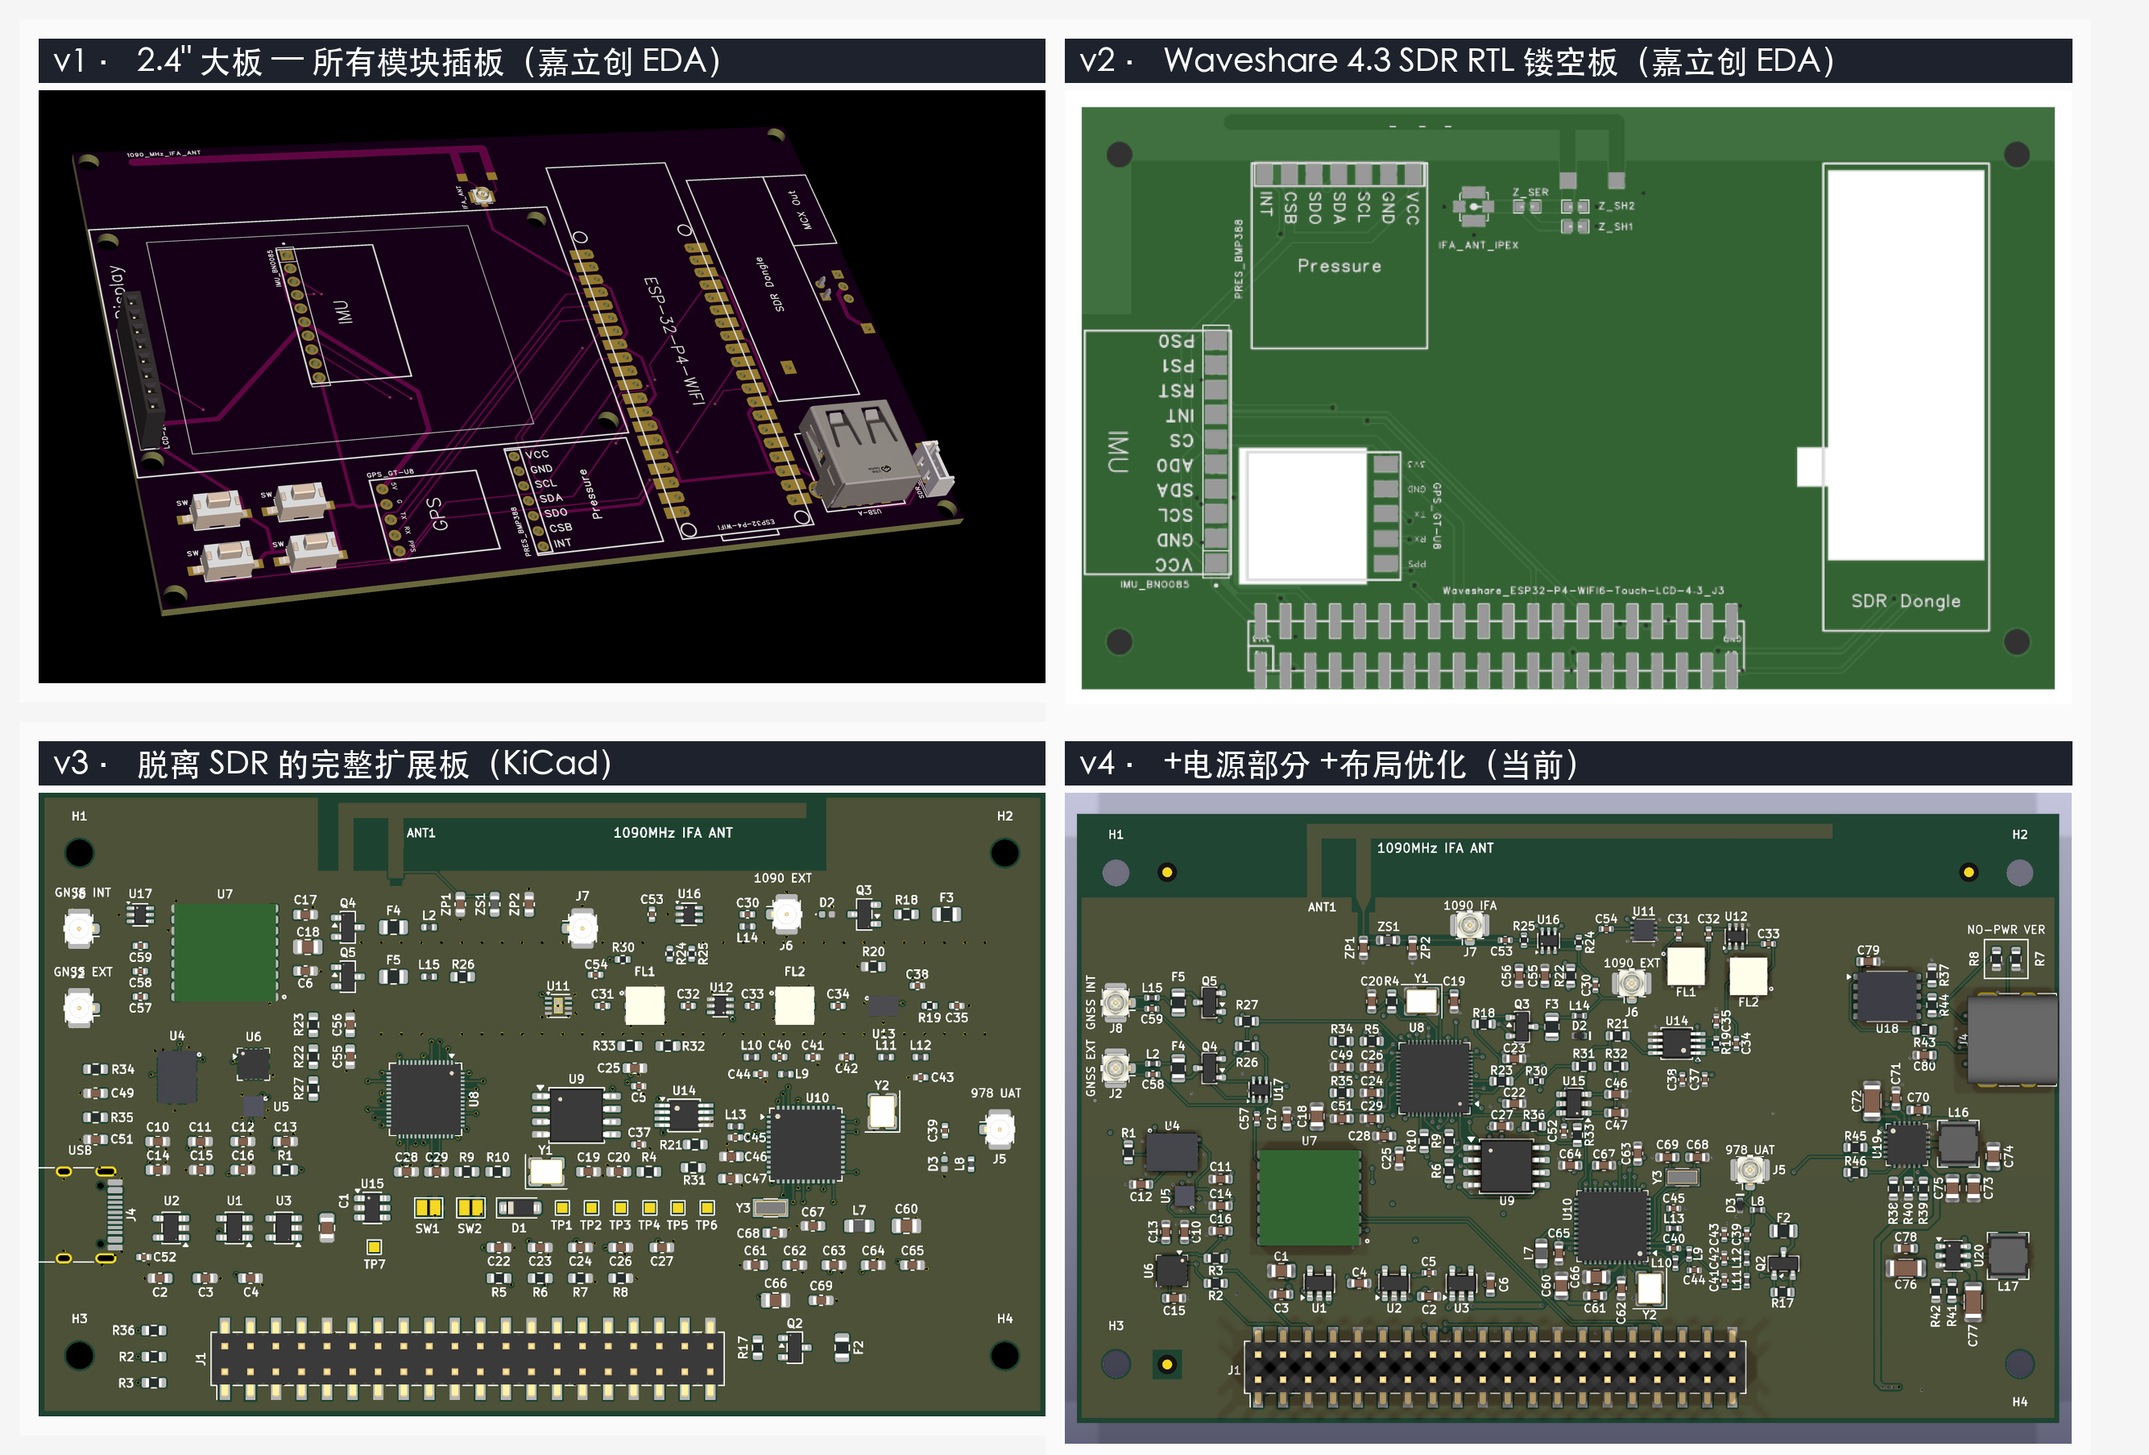
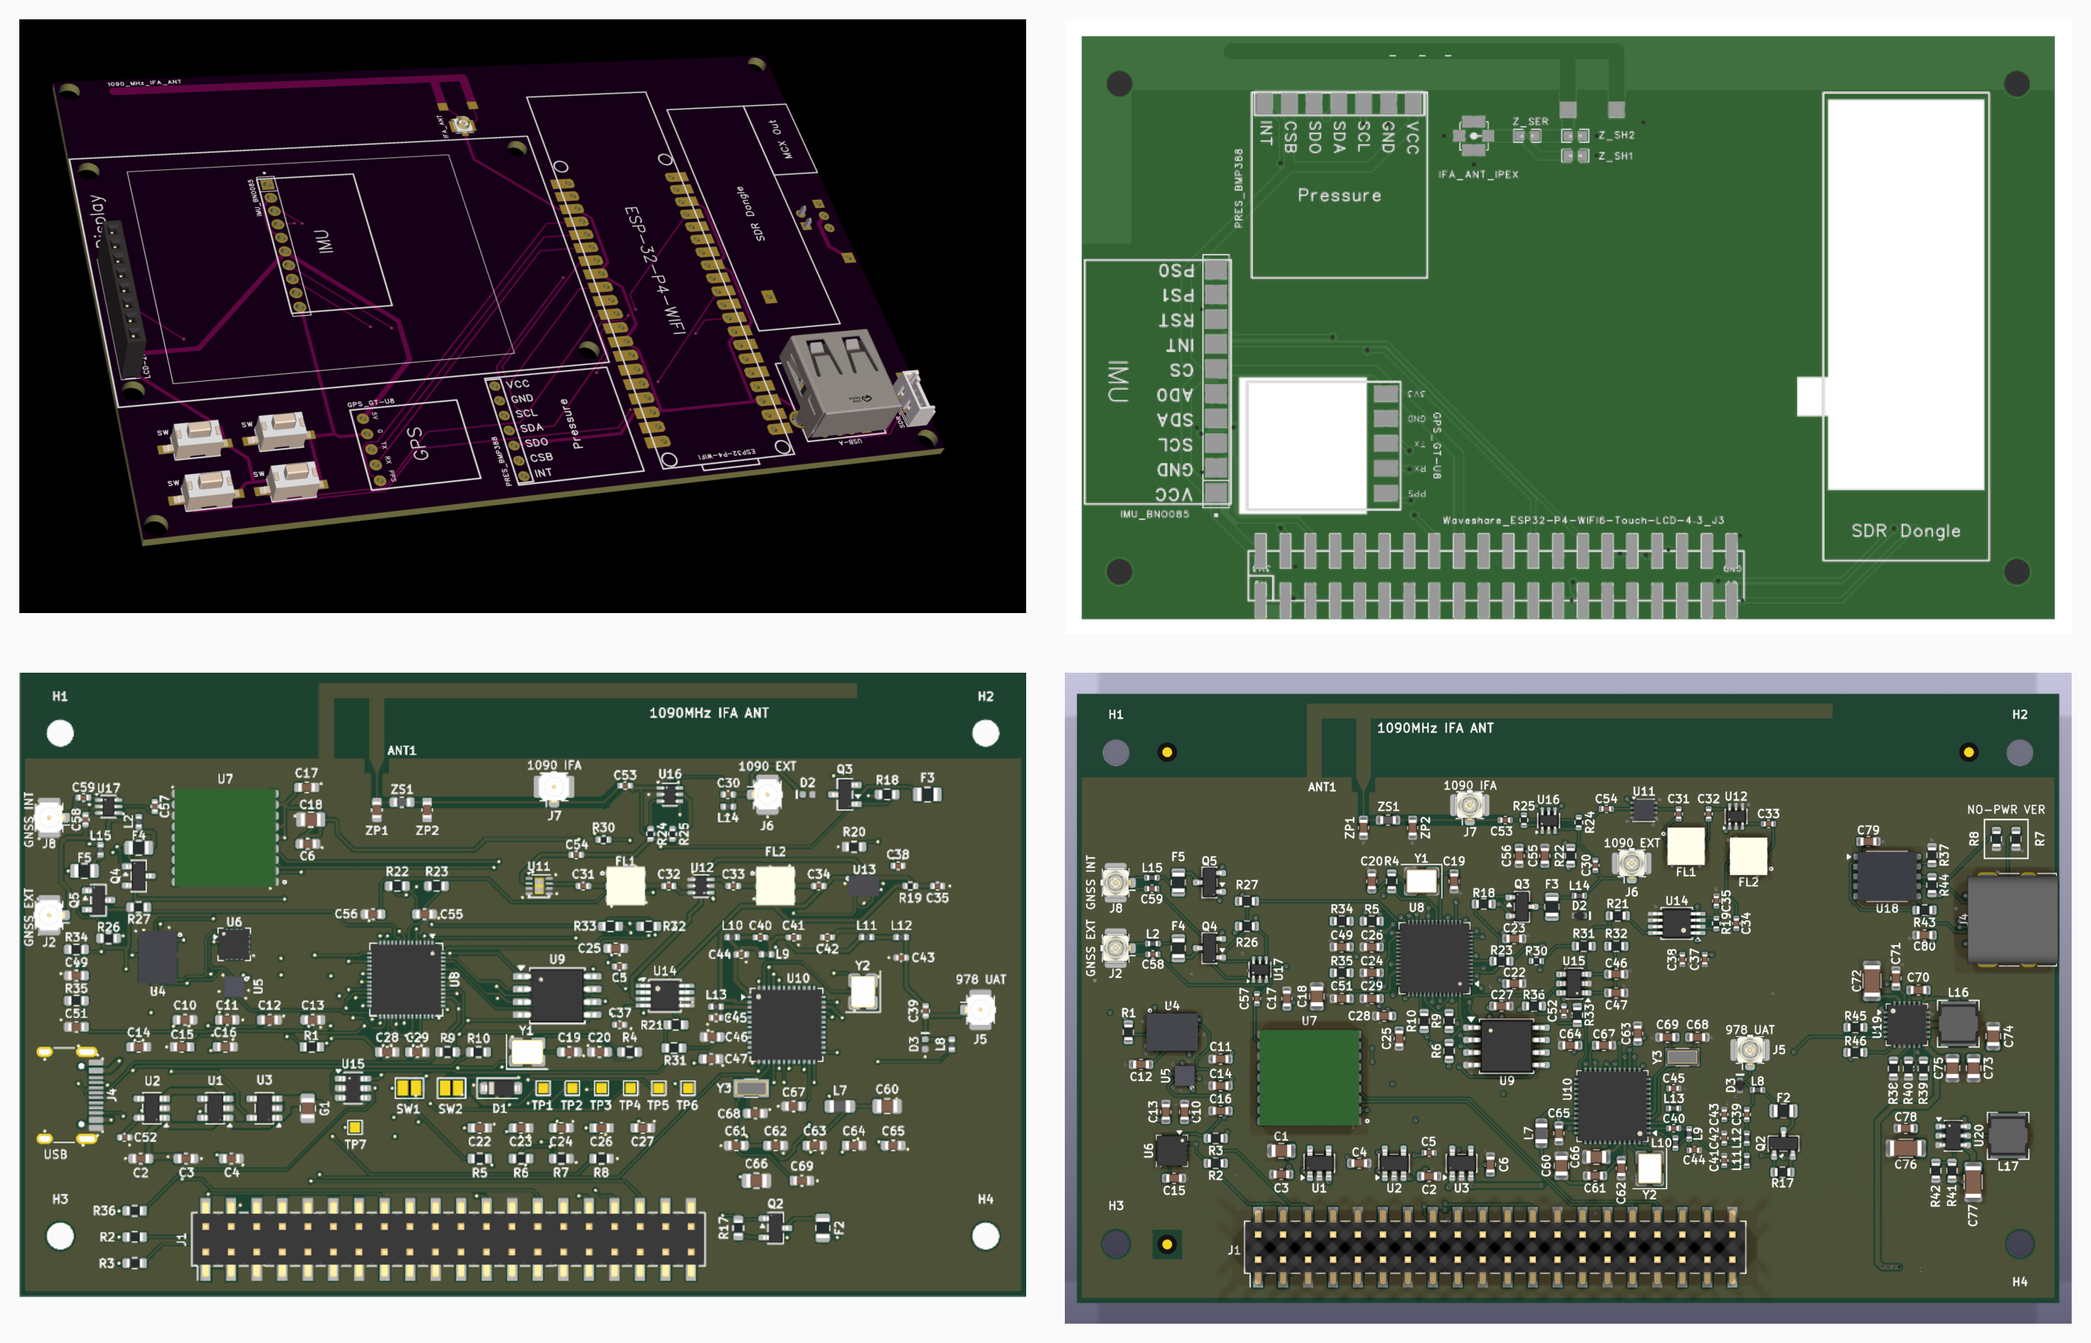
docs: 清理过时的 RTL-SDR 现行表述 + GDL90 已支持 + 四代同堂图修正
- 技术概览/功能基线：1090 MHz 接收按板代分两种形态
  （v1/v2 = USB RTL-SDR dongle；v3/v4 = 板载接收链经 RP2040 解码），
  不再把 dongle 路径写成唯一现行方案
- 特性表两条 RTL-SDR 行加 v1/v2 路径限定；必备硬件表加 v4 说明
- '未来支持 GDL90/EFB'改为已支持（GDL90 over BLE 已实现），
  Wi-Fi GDL90 仍为路线图
- BUILD/architecture/docs README 增加范围限定说明
- 四代同堂图：改用 magick + 英文标签；v3 换成封板版渲染
  （kicad-cli 从冻结后的 PCB 重新出图）

diff --git a/README.md b/README.md
@@ -56,13 +56,13 @@ board generation), while the **firmware** releases via tags `v0.5.0` /
 
 它的核心价值不是单纯“看天上有哪些飞机”，而是帮助用户低成本记录、理解和管理自己的飞行数据。它可以随飞机一起使用，记录每一次飞行中的关键数据，用于飞行日志、回放、分享和分析；也可以接收附近飞机公开广播的 ADS-B / Mode-S 信号，在本机屏幕上显示周边交通信息。
 
-你可以把它理解成一个“飞行员自己的小型数据记录与接收盒子”：它既能独立工作，也能和 Pilot Kit 紧密结合；未来也可以通过标准航空数据格式与 Garmin Pilot、ForeFlight 等第三方 EFB 软件配合使用。
+你可以把它理解成一个“飞行员自己的小型数据记录与接收盒子”：它既能独立工作，也能和 Pilot Kit 紧密结合；并已支持通过标准航空数据格式（GDL90 over BLE）与 Garmin Pilot、ForeFlight 等第三方 EFB 软件配合使用。
 
 Pilot Kit Box can work as a standalone device or integrate closely with [Pilot Kit](https://air.club). If you know products such as Stratux, Sentry, Garmin GDL, or uAvionix ping, Pilot Kit Box is best understood as a more open, lower-cost, builder-friendly flight data and ADS-B box. It is intended for pilots, student pilots, aviation enthusiasts, and general-aviation developers who want local flight recording, attitude display, nearby traffic reception, and data they can later review or share.
 
 The main point is not just watching aircraft overhead. Pilot Kit Box is meant to help users record, understand, and manage their own flying at a much lower cost. It can record each flight for logs, replay, sharing, and analysis; it can also receive public ADS-B / Mode-S broadcasts from nearby aircraft and show surrounding traffic on the built-in display.
 
-Think of it as a pilot's own small flight data recorder and receiver: it can run independently, integrate tightly with Pilot Kit, and evolve toward standard aviation data outputs for third-party EFB apps such as Garmin Pilot and ForeFlight.
+Think of it as a pilot's own small flight data recorder and receiver: it can run independently, integrate tightly with Pilot Kit, and already speaks standard aviation data (GDL90 over BLE) for third-party EFB apps such as Garmin Pilot and ForeFlight.
 
 ## 使用场景 / Use Cases
 
@@ -75,7 +75,7 @@ Pilot Kit Box is designed to give pilots, student pilots, and aviation enthusias
 - 接收附近飞机的 ADS-B / Mode-S 广播，显示周边交通、航班号、国家、航司、机型和注册号等信息。<br>Receive nearby ADS-B / Mode-S traffic and show callsign, country, airline, aircraft type, and registration when known.
 - 在没有互联网的情况下，本地接收和记录航空数据，而不是依赖在线航班网站。<br>Receive and record aviation data locally without relying on online flight-tracking websites.
 - 与 Pilot Kit 软件结合，把硬件采集到的数据用于更完整的飞行记录、回放、分析和分享体验。<br>Use captured device data with Pilot Kit for richer flight records, replay, analysis, and sharing.
-- 作为通用飞行数据盒子继续扩展；路线图中的 GDL90 over Wi-Fi 目标是连接 Garmin Pilot、ForeFlight 等 EFB。<br>Continue evolving as a general-purpose flight data box; the roadmap GDL90 over Wi-Fi path targets EFBs such as Garmin Pilot and ForeFlight.
+- 作为通用飞行数据盒子继续扩展；GDL90 已通过 BLE 输出（Ownship / Traffic / Heartbeat / Raw），Wi-Fi GDL90 在路线图中，目标是连接 Garmin Pilot、ForeFlight 等 EFB。<br>Continue evolving as a general-purpose flight data box; GDL90 already ships over BLE (ownship / traffic / heartbeat / raw), with Wi-Fi GDL90 on the roadmap targeting EFBs such as Garmin Pilot and ForeFlight.
 - 给通航、航电、嵌入式和 SDR 爱好者提供一个完整、开源、可学习的参考实现。<br>Provide a complete open-source reference for general aviation, avionics, embedded systems, and SDR builders.
 
 ## 为什么要做这个设备 / Why Build This
@@ -97,7 +97,7 @@ Portable ADS-B receivers and flight data boxes already exist, including Stratux,
 Pilot Kit Box focuses on:
 
 - **Low cost**: ESP32-P4, RTL-SDR, display, IMU, and common power modules keep the hardware approachable.
-- **General-purpose use**: it is not locked to one app; it can run on its own and evolve toward standard aviation data interfaces.
+- **General-purpose use**: it is not locked to one app; it can run on its own and already speaks standard aviation data interfaces (GDL90).
 - **Tight Pilot Kit integration**: Pilot Kit can use Box data for richer flight records, replay, analysis, and sharing.
 - **Local recording**: flight data can be recorded on the device for review and personal archives.
 - **Situational awareness**: the same box can receive nearby ADS-B / Mode-S traffic and help users understand surrounding airspace.
@@ -106,9 +106,9 @@ Pilot Kit Box focuses on:
 
 ## 技术概览 / Technical Overview
 
-当前 ESP32-P4 版本把传统依赖 Linux 板卡的 ADS-B 接收链路压缩到单片机 + RTOS 架构：ESP32-P4 通过原生 USB 2.0 HS 直接驱动 RTL-SDR，实时接收 1090 MHz ADS-B / Mode-S 信号，在本机完成 dump1090 派生的 DSP 解码、CPR 定位融合、飞机状态聚合，并通过 BLE GATT、串口以及 LittleFS / MicroSD 文件输出给移动端或调试工具。
+当前 ESP32-P4 版本把传统依赖 Linux 板卡的 ADS-B 接收链路压缩到单片机 + RTOS 架构。1090 MHz 接收按板代有两种形态：**v1/v2 载板**由 ESP32-P4 通过原生 USB 2.0 HS 直接驱动 RTL-SDR dongle；**v3/v4 扩展板**自带 1090 MHz 接收链（QPL9547 LNA + TA0970A SAW + AD8313 对数检波 + TLV3501 比较器），由 RP2040 解码后馈给 P4。两条路径都在本机完成 dump1090 派生的解码、CPR 定位融合、飞机状态聚合，并通过 BLE GATT、串口以及 LittleFS / MicroSD 文件输出给移动端或调试工具。
 
-The ESP32-P4 edition removes the Linux SBC from the ADS-B path: the P4 drives an RTL-SDR receiver over native USB 2.0 HS, decodes 1090 MHz ADS-B / Mode-S frames on-device, fuses per-aircraft state, and publishes traffic over BLE GATT, serial output, and LittleFS or MicroSD logs.
+The ESP32-P4 edition removes the Linux SBC from the ADS-B path. The 1090 MHz receive chain comes in two board-generation flavors: on the **v1/v2 carriers** the P4 drives an RTL-SDR receiver over native USB 2.0 HS, while the **v3/v4 expansion boards** carry their own 1090 MHz receive chain (QPL9547 LNA + TA0970A SAW + AD8313 log detector + TLV3501 comparator) decoded by an RP2040 and fed to the P4. Both paths decode dump1090-derived frames on-device, fuse per-aircraft state, and publish traffic over BLE GATT, serial output, and LittleFS or MicroSD logs.
 
 ## 安全与适航边界 / Safety And Certification Boundary
 
@@ -142,7 +142,7 @@ diagnostics, local aviation identity databases, and BNO085 attitude fusion.
 | 功能 | Feature | 状态 / Status |
 |---|---|---|
 | ESP32-P4 + FreeRTOS 固件，无 Linux 启动链路 | ESP32-P4 + FreeRTOS firmware, no Linux boot chain | 已实现 / Implemented |
-| USB 2.0 HS 直连 RTL-SDR，1090 MHz，2 MSPS IQ8 数据流 | USB 2.0 HS RTL-SDR path at 1090 MHz, 2 MSPS IQ8 | 已实现 / Implemented |
+| USB 2.0 HS 直连 RTL-SDR，1090 MHz，2 MSPS IQ8 数据流（v1/v2 载板路径） | USB 2.0 HS RTL-SDR path at 1090 MHz, 2 MSPS IQ8 (v1/v2 carrier path) | 已实现 / Implemented |
 | 512 KiB IQ ring buffer、非阻塞 USB 回调、DSP 任务解码 | 512 KiB IQ ring buffer, non-blocking USB callback, DSP decode task | 已实现 / Implemented |
 | dump1090 派生 Mode-S 解码、CRC 过滤、CPR 全球定位 | dump1090-derived Mode-S decode, CRC filtering, CPR global position decode | 已实现 / Implemented |
 | 最多同时跟踪 64 个 ADS-B / Mode-S 目标，并聚合呼号、高度、位置、速度、垂直速度、应答机码和机型信息 | Tracks up to 64 ADS-B / Mode-S targets at once, aggregating callsign, altitude, position, velocity, vertical rate, squawk, and aircraft type | 已实现 / Implemented |
@@ -161,7 +161,7 @@ diagnostics, local aviation identity databases, and BNO085 attitude fusion.
 | Settings / About / Diagnostics / Compass Calibration 中英文 UI，配置写入 NVS | English/Chinese Settings, About, Diagnostics, and Compass Calibration UI with NVS persistence | 已实现 / Implemented |
 | Noto Sans SC 字形生成、中文 LCD 锐化曲线、英文硬像素路径 | Noto Sans SC glyph generation, sharpened CJK LCD alpha curve, crisp English bitmap path | 已实现 / Implemented |
 | GT911 触摸 FAB 打开全屏导航网格直接切页（两页 10 项可翻页），FAB 可拖动记忆，详情页三路返回 | GT911 touch FAB opens a full-screen nav grid (10 items on two swipeable pages), remembers FAB position, and provides three detail-page back paths | 已实现 / Implemented |
-| RTL-SDR IQ stall 触发软重连，多次失败后才重启整机 | RTL-SDR IQ-stall soft re-init before full restart fallback | 已实现 / Implemented |
+| RTL-SDR IQ stall 触发软重连，多次失败后才重启整机（v1/v2 载板路径） | RTL-SDR IQ-stall soft re-init before full restart fallback (v1/v2 carrier path) | 已实现 / Implemented |
 
 ## 硬件清单 / Hardware Bill of Materials
 

diff --git a/docs/README.md b/docs/README.md
@@ -32,7 +32,12 @@ All public docs should match this baseline:
   not be documented as a primary instrument, backup instrument,
   navigation source, or collision-avoidance system.
 - Target board: **Waveshare ESP32-P4-WIFI6-Touch-LCD-4.3**. The P4 handles USB, DSP, UI, and storage; the C6 handles BLE.
-- RTL-SDR attaches to the native USB 2.0 HS pair. With the Pilot Kit carrier fitted, the dongle plugs into the carrier's USB-A plug on J3-27/25 and H2 stays empty; on a bare Waveshare board use the H2 Type-C port with an OTG adapter or hub. The two share the same nets, so only one at a time. The firmware defaults to 1090 MHz at 2 MSPS.
+- ADS-B reception comes in two board-generation flavors: **v1/v2 carriers and
+  bare boards** attach an RTL-SDR dongle to the native USB 2.0 HS pair (carrier
+  USB-A on J3-27/25, or H2 Type-C with an OTG adapter/hub on a bare Waveshare
+  board; both share the same nets — only one at a time), while the **v3/v4
+  expansion boards** carry an onboard 1090 MHz chain decoded by an RP2040. The
+  firmware defaults to 1090 MHz at 2 MSPS on the dongle path.
 - Current recommended SDR dongle tuner: **FC0013**, mainly because the BOM cost is low.
 - Identity databases: the ICAO24 aircraft database ships on the microSD card at `/sdcard/aero/pk_actdb.bin` (built into `datafiles/data/pk_actdb.bin`, read by `firmware/main/aircraft_db.c`) and is updated by copying a file, not by reflashing; the airline code table at `firmware/main/airline_codes.c` and the ICAO24 country table at `firmware/main/icao_country.c` are still compiled into the firmware.
 - LCD: **4.3-inch ST7701 480x800 MIPI-DSI**, presented as 800x480 landscape through PPA rotation; backlight PWM GPIO26, reset GPIO27, BL_EN GPIO33.

diff --git a/docs/README-zh_CN.md b/docs/README-zh_CN.md
@@ -30,7 +30,7 @@
 
 - 安全边界：Pilot Kit Box 不是经过适航认证的航电设备，文档不得把它写成主飞行仪表、备用仪表、导航源或防撞系统。
 - 目标开发板是 **Waveshare ESP32-P4-WIFI6-Touch-LCD-4.3**。P4 负责 USB、DSP、UI 和存储；C6 负责 BLE。
-- RTL-SDR 走原生 USB 2.0 HS 差分对：装上 Pilot Kit 载板时，dongle 插载板的 USB-A（J3-27/25），H2 保持空置；裸 Waveshare 板则用 H2 Type-C 加 OTG 转接头或 Hub。两者同网，只能二选一。默认 1090 MHz、2 MSPS。
+- ADS-B 接收按板代分两种形态：**v1/v2 载板与裸板**把 RTL-SDR dongle 接到原生 USB 2.0 HS 差分对（装载板时插载板 USB-A，走 J3-27/25；裸 Waveshare 板则用 H2 Type-C 加 OTG 转接头或 Hub；两者同网，只能二选一），而 **v3/v4 扩展板**自带 1090 MHz 接收链、由 RP2040 解码。dongle 路径默认 1090 MHz、2 MSPS。
 - 当前推荐的 SDR dongle tuner 是 **FC0013**，主要原因是 BOM 成本低。
 - 识别数据库：ICAO24 飞机数据库随 microSD 卡分发，路径 `/sdcard/aero/pk_actdb.bin`（仓库内产物 `datafiles/data/pk_actdb.bin`，读取端 `firmware/main/aircraft_db.c`），更新是拷文件、不是刷固件；`firmware/main/airline_codes.c` 的航司代码表和 `firmware/main/icao_country.c` 的 ICAO24 国家地址段表仍编进固件。
 - LCD 是 **4.3 寸 ST7701 480×800 MIPI-DSI 屏**，通过 PPA 作为 800×480 横屏使用；背光 GPIO26、复位 GPIO27、BL_EN GPIO33。

diff --git a/docs/BUILD.md b/docs/BUILD.md
@@ -20,7 +20,7 @@ Experienced ESP-IDF users can skip to [Build](#build) after checking the prerequ
 
 | Item | Purpose |
 |---|---|
-| RTL-SDR FC0013 USB dongle | 1090 MHz ADS-B reception. FC0013 is currently recommended because it keeps BOM cost low. |
+| RTL-SDR FC0013 USB dongle | 1090 MHz ADS-B reception for **v1/v2 carrier or bare-board builds**. FC0013 is currently recommended because it keeps BOM cost low. **Not needed with the v4 expansion board** — it carries an onboard 1090 MHz chain. |
 | USB-C OTG adapter or powered USB hub | Bare-board only: connects the H2 native USB HS port to a USB-A RTL-SDR dongle. The Pilot Kit carrier already carries a USB-A plug on J3-27/25 and needs no adapter. |
 | BNO085 / GY-BN008X IMU module | Attitude fusion for the PFD. |
 | USB-UART adapter | Required once per fresh board to flash the ESP32-C6 hosted slave firmware for BLE. |

diff --git a/docs/BUILD-zh_CN.md b/docs/BUILD-zh_CN.md
@@ -28,7 +28,7 @@
 
 | 选配硬件 | 用途 | 对应功能 |
 |----------|------|-------------|
-| RTL-SDR FC0013 USB dongle | 1090 MHz ADS-B 接收；当前推荐 FC0013，主要因为成本低 | ADS-B 数据链路 |
+| RTL-SDR FC0013 USB dongle | 1090 MHz ADS-B 接收，**适用于 v1/v2 载板或裸板方案**；当前推荐 FC0013，主要因为成本低。**v4 扩展板方案不需要**——它自带 1090 MHz 接收链 | ADS-B 数据链路 |
 | USB-C OTG 转接头或有源 USB Hub | 仅裸板需要：把 H2 原生 USB HS Type-C 转成 USB-A 母座接 RTL-SDR。Pilot Kit 载板自带 USB-A 插头（走 J3-27/25），不需要转接头 | ADS-B USB 数据链路 |
 | BNO085 IMU 模块 | 姿态融合 | PFD 姿态显示 |
 | USB-UART 转接器 (CP2102 / FTDI / CH340 任一即可) | 烧录 C6 hosted slave 固件 | BLE bring-up |

diff --git a/docs/architecture.md b/docs/architecture.md
@@ -6,6 +6,11 @@ Snapshot of the current 4.3-inch touch runtime topology, including ADS-B,
 BLE, GPS NMEA/RMC, barometer, dual storage backends, local traffic UI,
 diagnostics, IMU and i18n.
 
+> Scope note: the receive path documented here is the **RTL-SDR USB source**
+> (v1/v2 carriers and bare-board builds). The v3/v4 expansion boards carry an
+> onboard 1090 MHz chain decoded by an RP2040 that feeds this same on-device
+> pipeline; that source is additional to what this page details.
+
 ## Big picture
 
 ```mermaid

diff --git a/docs/architecture-zh_CN.md b/docs/architecture-zh_CN.md
@@ -6,6 +6,10 @@
 Host、Mode-S DSP 解码、LittleFS / MicroSD / UART / BLE 输出、GT-U8
 GPS NMEA/RMC、BMP388、BNO085，以及 PFD、交通、列表、设置、关于和诊断页面。
 
+> 范围说明：本文记载的接收路径是 **RTL-SDR USB 数据源**（v1/v2 载板与裸板
+> 方案）。v3/v4 扩展板自带 1090 MHz 接收链、由 RP2040 解码后馈入同一套
+> 板上处理管线；该数据源是本文所述内容之外的补充路径。
+
 ## 总览
 
 ```mermaid
